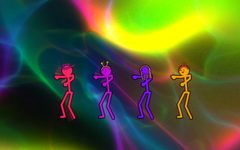
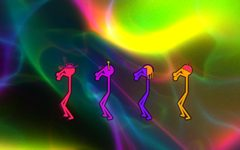
The dancers' hair and faces are placed on the head, so they turn together
The face was slid across the head by a part of the turn while hair that came down to the ears (a bob, a
fringe, long hair, a band) stayed where it was in the picture, so the face moved about under the hair.
Now the place in the picture is taken back to the place on the head it shows, as on a ball, and turned
back by the head's angle. Hair says which part of the head it covers in the head's own terms (above the
hairline, all but the face, a strip down the middle, a band from ear to ear), and the eyes and mouth sit
at their own places on the same ball. Hair now also covers the back of the head when a figure is turned
away. Parts that stand off the head (peak, tail, cups, bobbles) are placed by angle as before.

Checked for all sixteen heads at eight turns round.

Claude-Session: https://claude.ai/code/session_01P6VPR9y6rGkpLBNy8xwDmE

diff --git a/js/shaders.js b/js/shaders.js
@@ -521,25 +521,33 @@ VR_GLSL,
 "          float hpx=hd.z*min(uRes.x,uRes.y);float df=smoothstep(2.5,6.0,hpx);", /* a head only a few dots across has none: they would only flicker */
 "          if(df>0.0&&dot(hl,hl)<11.0){",
 /* fc: the angle the head is turned by (0 facing the viewer), and its face as five numbers in three (see danceFill).
-   Which head a figure has is its number's remainder on dividing by 16 (DN_LOOKS). The hair and hats turn with the
-   head: each part is taken to sit on a ball, at some angle round it from the front, so it is drawn sn of the way
-   across for a part at the front, cn for a part at the side. dh is the distance to what is seen whole; dq to what
-   is behind the head, and so seen only outside its disc. */
+   Which head a figure has is its number's remainder on dividing by 16 (DN_LOOKS). Everything on a head is placed on
+   the head, not on the picture, so that it turns with it. The head is a ball. For whatever lies on the ball (the
+   face, and hair that covers the scalp) the place in the picture is taken back to the place on the ball it shows,
+   and that is turned back by the head's angle: F is the place on the head itself (across, up, and toward the way
+   the face looks), and H the same for a shell of hair a little larger than the head. A style then says which
+   part of the shell it covers, in the head's own terms (behind the ears, above the brow), and the face's eyes and
+   mouth sit at their own places on F. Parts that stand off the head (a peak, a tail, cups, bobbles) are put where
+   their angle round the head brings them, sn of the way across for one at the front and cn for one at the side.
+   dh is the distance to what is seen whole; dq to what is behind the head, and so seen only outside its disc. */
 "            vec4 fc=uD9[i];float sty=mod(id,16.0);float aw=1.2/hpx;float tl=0.085*min(wd,3.0);float rh=length(hl);float ah=atan(hl.x,hl.y);float dh=1e5,dq=1e5;",
 "            float sn=sin(fc.x),cn=cos(fc.x);",
-"            float cap=max(abs(rh-1.09),0.35-hl.y);", /* a line over the top of the head, which several share */
-"            if(sty<0.5){", /* headphones: a band from ear to ear, which narrows to a line as the head turns side on, and two cups, which come to the middle */
-"              float sc=max(abs(cn),0.12);vec2 cw=vec2(0.13+0.13*abs(sn),0.3);",
-"              vec2 cu=abs(vec2(hl.x-1.16*cn,hl.y+0.1))-cw;vec2 cv2=abs(vec2(hl.x+1.16*cn,hl.y+0.1))-cw;", /* the cup on the figure's left, and the one on its right: the one on the far side of the head is behind it */
-"              dh=max(abs(length(vec2(hl.x/sc,hl.y))-1.14)*mix(1.0,sc,min(1.0,abs(hl.x)/(1.14*sc))),0.1-hl.y);",
-"              if(sn<0.15)dh=min(dh,max(cu.x,cu.y));else dq=max(cu.x,cu.y);",
-"              if(sn>-0.15)dh=min(dh,max(cv2.x,cv2.y));else dq=min(dq,max(cv2.x,cv2.y));",
-"            }else if(sty<1.5){float af=mod(ah+0.2+0.2546479*fc.x,0.4)-0.2;if(abs(ah)<1.4)dh=max(abs(af)*rh-0.15*(1.65-rh),max(1.0-rh,rh-1.65));}", /* spikes all over: they go round with the head, four places to a whole turn */
-"            else if(sty<2.5){", /* long hair: six waving strands, from the sides round to the back */
-"              dh=max(abs(rh-1.18),0.3-hl.y);",
+"            vec2 hs=hl/1.12;float h2=dot(hs,hs);vec3 H=vec3(0.0);float off=1e5;",
+"            if(h2<1.0){float hz=sqrt(1.0-h2);H=vec3(hs.x*cn-hz*sn,hs.y,hs.x*sn+hz*cn);off=tl;}", /* off: what is added to a part of the shell, so that it is lit just where it is covered, and not at all off the shell */
+"            float scalp=0.55*H.z-0.05-H.y+off;", /* hair over the scalp: from the brow in front, down past the ears, to the nape behind */
+"            float band=max(abs(H.z)-0.09,0.05-H.y)+off;", /* a band over the top from ear to ear */
+"            if(sty<0.5){", /* headphones: the band, and a cup over each ear, round from the side and narrow from in front */
+"              dh=band;",
+"              for(int k=0;k<2;k++){",
+"                float sd=k==0?1.0:-1.0;vec2 pv=hl-vec2(sd*1.13*cn,-0.1);float pe=length(pv/vec2(0.11+0.2*abs(sn),0.3));float e=(1.0-1.0/max(pe,0.05))*length(pv);",
+"                if(sd*sn<0.25)dh=min(dh,e);else dq=min(dq,e);",
+"              }",
+"            }else if(sty<1.5){float af=mod(ah+0.2+0.2546479*fc.x,0.4)-0.2;dh=scalp;if(abs(ah)<1.4)dh=min(dh,max(abs(af)*rh-0.15*(1.65-rh),max(1.0-rh,rh-1.65)));}", /* spikes all over: they go round with the head, four places to a whole turn */
+"            else if(sty<2.5){", /* long hair: over all the head but the face, and six waving strands hanging from the sides round to the back */
+"              dh=min(H.z-0.25,0.5-H.y)+off;",
 "              for(int k=0;k<6;k++){",
 "                float fk=float(k);float a=(1.6+0.6*floor(fk*0.5))*(mod(fk,2.0)<0.5?1.0:-1.0)+fc.x;",
-"                float e=max(abs(hl.x-1.17*sin(a)-0.07*sin(2.4*hl.y+fk)),max(hl.y-0.3,-2.1+0.15*mod(fk,3.0)-hl.y));",
+"                float e=max(abs(hl.x-1.17*sin(a)-0.07*sin(2.4*hl.y+fk)),max(hl.y-0.1,-2.1+0.15*mod(fk,3.0)-hl.y));",
 "                if(cos(a)>0.0)dh=min(dh,e);else dq=min(dq,e);",
 "              }",
 "            }else if(sty<3.5){", /* a top hat: its outline, its brim and its band, and a buckle on the band at the front */
@@ -549,22 +557,23 @@ VR_GLSL,
 "              dh=min(max(rh-1.12,0.5-hl.y),length(hl-vec2(0.0,1.2))-0.06);",
 "              vec2 pv=vec2(hl.x-1.3*sn,hl.y-0.5);float pe=length(pv/vec2(0.5+0.22*abs(cn),0.1));float pk=(1.0-1.0/max(pe,0.05))*length(pv);", /* how far outside the peak's flat oval this is, measured along the line from its middle */
 "              if(cn>-0.15)dh=min(dh,pk);else dq=pk;",
-"            }else if(sty<5.5){float bn=abs(length(hl-vec2(-0.55*sn,1.3))-0.33);dh=cap;if(cn<0.2)dh=min(dh,bn);else dq=bn;}", /* hair in a bun at the back of the top */
-"            else if(sty<6.5){if(abs(ah)<2.1)dh=min(abs(rh-1.52-0.07*cos(11.0*ah+2.0*fc.x)),abs(rh-1.26-0.05*cos(9.0*ah+1.0-3.0*fc.x)));}", /* a round mass of curls, which go round */
-"            else if(sty<7.5){float af=mod(ah+0.14,0.28)-0.14;if(abs(ah)<0.16+1.0*abs(sn))dh=max(abs(af)*rh-0.12*(2.05-rh),max(1.0-rh,rh-2.05-0.25*cos(ah)+0.25));}", /* a crest from the brow to the nape: a few spikes close together from in front, a fan of them from the side */
-"            else if(sty<8.5){", /* a ponytail: tied at the back of the top, it hangs down behind */
+"            }else if(sty<5.5){float bn=abs(length(hl-vec2(-0.55*sn,1.3))-0.33);dh=scalp;if(cn<0.2)dh=min(dh,bn);else dq=bn;}", /* hair in a bun at the back of the top */
+"            else if(sty<6.5){dh=scalp;if(abs(ah)<2.1)dh=min(dh,min(abs(rh-1.52-0.07*cos(11.0*ah+2.0*fc.x)),abs(rh-1.26-0.05*cos(9.0*ah+1.0-3.0*fc.x))));}", /* a round mass of curls, which go round */
+"            else if(sty<7.5){", /* a crest from the brow to the nape: a strip of hair down the middle of the head, and spikes standing from it, a few close together from in front and a fan from the side */
+"              float af=mod(ah+0.14,0.28)-0.14;dh=max(abs(H.x)-0.13,max(min(0.3-H.y,H.z),-0.5-H.y))+off;",
+"              if(abs(ah)<0.16+1.0*abs(sn))dh=min(dh,max(abs(af)*rh-0.12*(2.05-rh),max(1.0-rh,rh-2.05-0.25*cos(ah)+0.25)));",
+"            }else if(sty<8.5){", /* a ponytail: tied at the back of the top, it hangs down behind */
 "              float tq=min(limb(hl,vec2(-0.75*sn,0.78),vec2(-1.5*sn,0.15)),limb(hl,vec2(-1.5*sn,0.15),vec2(-1.3*sn-0.1*cn,-1.05)))-0.05;",
-"              dh=cap;if(cn<0.2)dh=min(dh,tq);else dq=tq;",
-"            }else if(sty<9.5){", /* two bunches, one at each side, each a ball of hair and a tail */
-"              dh=cap;",
+"              dh=scalp;if(cn<0.2)dh=min(dh,tq);else dq=tq;",
+"            }else if(sty<9.5){", /* two bunches, one behind each ear, each a ball of hair and a tail */
+"              dh=scalp;",
 "              for(int k=0;k<2;k++){",
 "                float a=(k==0?1.75:-1.75)+fc.x;float bx=1.18*sin(a);",
 "                float e=min(length(hl-vec2(bx,-0.05))-0.24,limb(hl,vec2(bx,-0.05),vec2(1.15*bx,-0.95))-0.04);",
 "                if(cos(a)>-0.3)dh=min(dh,e);else dq=min(dq,e);",
 "              }",
-"            }else if(sty<10.5){", /* a bob: hair over the top of the head down to a fringe in front, lower at the sides, and right down the back */
-"              dh=min(max(rh-1.14,0.28-0.85*smoothstep(0.3,-0.3,cn)-hl.y),max(abs(rh-1.07)-0.09,-0.62-hl.y));",
-"            }else if(sty<11.5){", /* a woolly hat: a filled crown, a turned-up band and a bobble on top */
+"            }else if(sty<10.5){dh=max(min(H.z-0.3,0.3-H.y),-0.55-H.y)+off;}", /* a bob: over all the head but the face, down to the jaw, with a fringe */
+"            else if(sty<11.5){", /* a woolly hat: a filled crown, a turned-up band and a bobble on top */
 "              dh=min(max(rh-1.15,0.5-hl.y),min(abs(max(abs(hl.y-0.4)-0.11,abs(hl.x)-1.1)),length(hl-vec2(0.0,1.36))-0.2));",
 "            }else if(sty<12.5){", /* a wide hat: a brim turned up at the sides and a crown with a dent in it */
 "              vec2 bx=abs(hl-vec2(0.0,1.08))-vec2(0.72,0.42);float cr=max(length(max(bx,0.0))+min(max(bx.x,bx.y),0.0),0.16-length(hl-vec2(0.0,1.6)));",
@@ -576,8 +585,8 @@ VR_GLSL,
 "            }else if(sty<14.5){", /* a crown: a band with points, which go round as the head turns */
 "              float zz=1.02+0.42*abs(fract(hl.x*1.25+0.4774648*fc.x)*2.0-1.0);",
 "              dh=min(min(max(abs(hl.y-zz)*0.6,abs(hl.x)-0.86),max(abs(hl.y-0.74),abs(hl.x)-0.86)),max(abs(abs(hl.x)-0.86),max(0.74-hl.y,hl.y-1.3)));",
-"            }else{", /* two bobbles on springs, one from each side of the top: they cross as the head turns */
-"              dh=cap;",
+"            }else{", /* two bobbles on springs, one from each end of a band over the top: they cross as the head turns */
+"              dh=band;",
 "              for(int k=0;k<2;k++){",
 "                float a=(k==0?1.5707963:-1.5707963)+fc.x;vec2 ft=vec2(0.42*sin(a),0.98);vec2 tp=vec2(0.8*sin(a),1.95);",
 "                dh=min(dh,min(limb(hl,ft,tp)+0.02,length(hl-tp)-0.13));",
@@ -587,13 +596,15 @@ VR_GLSL,
 "            float he=(1.0-smoothstep(tl,2.2*tl+aw,dh))*df,hb=(1.0-smoothstep(tl-aw,tl+aw,dh))*df;",
 "            ln=ln*(1.0-he)+hb*fract(hd.w)*2.0;dk=max(dk,he);",
 "            if(hb>0.5)rr=0.15+fract(id*0.382+0.31)*1.08;", /* in another of the palette's colours than the body */
-"            if(rh<0.93&&cn>0.02&&hb<0.5){", /* the face, on a head turned toward the viewer: two eyes and a mouth, dark in the lit head, moved across and narrowed as the head turns */
-"              float sq=max(cn,0.35);vec2 fl=vec2((hl.x-0.7*sn)/sq,hl.y);",
-"              float mo=floor(fc.y)/255.0,lid=fract(fc.y),mw=max(0.05,floor(fc.z)/510.0),cv=fract(fc.z);",
-"              vec2 ey=vec2(abs(fl.x)-0.36,fl.y-0.18);",
-"              float de=mix(length(vec2(ey.x,ey.y/(1.0-0.8*lid)))-0.1,max(abs(length(ey+vec2(0.0,0.05))-0.14)-0.035,-0.03-ey.y),fc.w);", /* an eye is a dot, which its lid flattens; or, shut and smiling, an arch */
-"              float mh=0.045+0.17*mo;float dm=length(vec2(fl.x*mh/mw,fl.y+0.36-cv*fl.x*fl.x))-mh;", /* the mouth: so wide, so far open, its corners so far turned up */
-"              ln*=1.0-0.9*max(1.0-smoothstep(-aw,aw,de),1.0-smoothstep(-aw,aw,dm))*smoothstep(0.02,0.3,cn)*df*(1.0-smoothstep(0.86,0.93,rh));",
+"            if(rh<0.97&&hb<0.5){", /* the face: two eyes and a mouth, dark in the lit head, at their own places on the ball, so they go across and narrow as the head turns, and are gone when it is turned away */
+"              float fz=sqrt(1.0-rh*rh);vec3 F=vec3(hl.x*cn-fz*sn,hl.y,hl.x*sn+fz*cn);",
+"              if(F.z>0.1){",
+"                vec2 fl=F.xy;float mo=floor(fc.y)/255.0,lid=fract(fc.y),mw=max(0.05,floor(fc.z)/510.0),cv=fract(fc.z);",
+"                vec2 ey=vec2(abs(fl.x)-0.36,fl.y-0.18);",
+"                float de=mix(length(vec2(ey.x,ey.y/(1.0-0.8*lid)))-0.1,max(abs(length(ey+vec2(0.0,0.05))-0.14)-0.035,-0.03-ey.y),fc.w);", /* an eye is a dot, which its lid flattens; or, shut and smiling, an arch */
+"                float mh=0.045+0.17*mo;float dm=length(vec2(fl.x*mh/mw,fl.y+0.36-cv*fl.x*fl.x))-mh;", /* the mouth: so wide, so far open, its corners so far turned up */
+"                ln*=1.0-0.9*max(1.0-smoothstep(-aw,aw,de),1.0-smoothstep(-aw,aw,dm))*smoothstep(0.1,0.35,F.z)*df;",
+"              }",
 "            }",
 "          }",
 "        }",

diff --git a/docs/ARCHITECTURE.md b/docs/ARCHITECTURE.md
@@ -537,7 +537,7 @@ Drawn into the feedback buffer after the composite, so the motion smears them. S
 
 **The dancers** (`js/dance.js`, `js/moves.js`; `uOv` 8 to 10: Dancer, Chorus line, Dance floor, marked `dance: 1`, `2`, `3` in `OVERLAYS`). Stick figures that dance to the music: one, with a deep floor to itself; four doing the same dance together; a crowd of eight to twelve (chosen each time the overlay is), each with its own. They are meant to move as a person in a suit with lines down the limbs would. Nothing about them is in the sound texture: JavaScript works out every joint and the shader only draws lines.
 - *Manners.* A figure keeps one of three for as long as it is on the floor (`DN_MANNERS`; a third of a crowd each, the dancer alone any, the chorus line all steady, since they dance as one). **Steady** is the figure as it always was. **Lively** takes the music to be 1.4 times as full as it is, so chooses livelier moves, sways and hits with its arms a quarter to a third more, gives half as much again to the beat with its knees and head, and follows a move more sharply. **Smooth** takes the music as 0.72 as full, hits half as hard, hardly bobs, rounds every corner of a move (its pose follows at 8 a second, not 13), sweeps its hands in slow wide curves, moves over the floor at 2.2 times `DN_DRIFT` and chooses a new place as soon as it reaches one, so it never stops gliding, and spins on the spot through every move at 0.3 to 0.6 radians a beat, the same way for most of them. All of it is inside the room a figure already had, and `tools/unit.mjs` still holds every joint under seven heights a second.
-- *Heads.* Each figure's number (`d.id`) is its place in the crowd times 16 plus which of the sixteen heads it has (`DN_LOOKS`), neighbours differing: headphones, spikes, long hair, a top hat, a cap whose peak points the way the head is turned, a bun, a round mass of curls, a crest, a ponytail, two bunches, a bob, a woolly hat with a bobble, a wide hat, a party hat, a crown, and two bobbles on springs. The shader takes the number's remainder on dividing by 16 and draws the head's details in the head's own frame (across, and up along the line from the neck, in head radii), in lines a quarter as wide as the body's and in another of the palette's colours. The hair and hats turn with the head. `uD9.x` is the angle the chest faces by (0 toward the viewer), and each part is taken to sit on a ball at some angle round it from the front, so it is drawn the sine of its angle across: the cap is a filled crown with a flat oval peak joined to its lower edge, a band across the brow from in front, long from the side and hidden from behind; a ponytail hangs behind and is seen whole from the back; a bob's hair comes right down the back of the head; a party hat sits to one side and goes round; a crown's points go round; the two bobbles cross; the headphones' cups come to the middle as the head turns side on and their band narrows to a line; the six strands of long hair go round from the sides to the back, so a figure seen from behind has them over its head; the bun is behind the top of the head and the top hat has a buckle at the front; the crest is a few spikes close together from in front and a fan from the side; spikes and curls go round. A part behind the head is drawn only outside its disc (`dq`). A head turned toward the viewer has two eyes and a mouth, dark in the lit head, moved across and narrowed as it turns. **Faces** (`DN_FACES`): smile, grin, bliss (eyes shut and smiling: arches, not dots), pursed (a small round mouth), cool (lids half down, mouth nearly straight) and lost (eyes shut, lips pursed). A face is five numbers: the mouth's half width, how far its corners turn up, how far it is open, how far the lids are down, how far the eyes are arches. A figure takes a new face every four to twelve seconds (`pickFace`: lively figures grin most, smooth ones shut their eyes most) and goes over to it in about a third of a second, number by number, so nothing jumps. `danceFill` packs them two to a number for the shader (the first in 255 steps as the whole part, the second as what is over). The mouth opens with the kick, more on a lively figure and hardly at all when pursed; the eyes shut for a moment every five seconds or so. On a head under about six dots across the details fade out, and under two and a half they are not worked out at all, so the far figures of a crowd cost what they did. Per dot it is one test against the head's place and, near a head, one head's worth of arithmetic: little beside the sixteen lines of the body.
+- *Heads.* Each figure's number (`d.id`) is its place in the crowd times 16 plus which of the sixteen heads it has (`DN_LOOKS`), neighbours differing: headphones, spikes, long hair, a top hat, a cap whose peak points the way the head is turned, a bun, a round mass of curls, a crest, a ponytail, two bunches, a bob, a woolly hat with a bobble, a wide hat, a party hat, a crown, and two bobbles on springs. The shader takes the number's remainder on dividing by 16 and draws the head's details in the head's own frame (across, and up along the line from the neck, in head radii), in lines a quarter as wide as the body's and in another of the palette's colours. The hair, the hats and the face turn with the head as one, because all of them are placed on the head and none on the picture. `uD9.x` is the angle the chest faces by (0 toward the viewer). The head is a ball: for what lies on it, the place in the picture is taken back to the place on the ball it shows (`z = sqrt(1 - x^2 - y^2)`) and turned back by the angle, giving `F`, the place on the head itself (across, up, toward the way the face looks), and `H`, the same on a shell of hair 1.12 times the head. Hair that covers the head says which part of the shell it covers in the head's own terms: `scalp` (above a line that slopes from the brow down past the ears to the nape) under the spikes, the bun, the curls, the ponytail and the bunches; all but the face (`H.z > 0.3` and below the fringe) for the bob and the long hair; a strip down the middle for the crest; `band` (within 0.09 of the cut through both ears, over the top) for the headphones and the bobbles. The eyes and mouth sit at their own places on `F` and fade as `F.z` nears nothing, so they go across and narrow exactly as the hair's edge does. (They were first drawn flat with the face slid across by 0.7 of the sine while a fringe or a bob stayed where it was: the face moved under the hair.) Parts that stand off the head are put where their angle round it brings them, the sine of that angle across: the cap is a filled crown with a flat oval peak joined to its lower edge, a band across the brow from in front, long from the side and hidden from behind; a ponytail hangs behind and is seen whole from the back; a bob's hair comes right down the back of the head; a party hat sits to one side and goes round; a crown's points go round; the two bobbles cross; the headphones' cups come to the middle as the head turns side on and their band narrows to a line; the six strands of long hair go round from the sides to the back, so a figure seen from behind has them over its head; the bun is behind the top of the head and the top hat has a buckle at the front; the crest is a few spikes close together from in front and a fan from the side; spikes and curls go round. A part behind the head is drawn only outside its disc (`dq`). A head turned toward the viewer has two eyes and a mouth, dark in the lit head, moved across and narrowed as it turns. **Faces** (`DN_FACES`): smile, grin, bliss (eyes shut and smiling: arches, not dots), pursed (a small round mouth), cool (lids half down, mouth nearly straight) and lost (eyes shut, lips pursed). A face is five numbers: the mouth's half width, how far its corners turn up, how far it is open, how far the lids are down, how far the eyes are arches. A figure takes a new face every four to twelve seconds (`pickFace`: lively figures grin most, smooth ones shut their eyes most) and goes over to it in about a third of a second, number by number, so nothing jumps. `danceFill` packs them two to a number for the shader (the first in 255 steps as the whole part, the second as what is over). The mouth opens with the kick, more on a lively figure and hardly at all when pursed; the eyes shut for a moment every five seconds or so. On a head under about six dots across the details fade out, and under two and a half they are not worked out at all, so the far figures of a crowd cost what they did. Per dot it is one test against the head's place and, near a head, one head's worth of arithmetic: little beside the sixteen lines of the body.
 - *Journey and the chorus line.* `J_SELDOM` in `js/journey.js` multiplies the chorus line's chance by 0.15 wherever Journey chooses an overlay, on top of the user's own likes: from either other overlay of dancers it is taken about one time in eight.
 
 - *Keeping time.* `makeBeatClock` is given the bass's pulse each frame. A hit is the pulse rising 0.15 above where it had sunk to (and above 0.2, and at least 0.24 s after the last). The time between two hits is doubled or halved into `DN_FAST` to `DN_SLOW` (0.36 to 0.72 s, 166 to 83 beats a minute) and taken as the beat's length when within 18% of what is held (eased in by 0.3), or after three in a row that are not. The count `u` runs on at one a beat; a hit within 0.3 of a whole count pulls the count three quarters of the way to it, spread over the next frames, and three hits in a row that fall between the counts move the count to them. The count never goes backward. It is kept whatever overlay is chosen, so figures chosen later are in time at once. A tapped tempo is followed the same way, since it gives the same pulse.

diff --git a/CLAUDE.md b/CLAUDE.md
@@ -81,7 +81,7 @@ The Python tools need `google-chrome` or `chromium` on PATH (they run it headles
 - **Every sampler in the scene shader must be given a texture unit every frame.** One left at the default, unit 0, can name the picture being drawn into, and the chip then refuses the draw.
 - **Hold still averages frames of a scene that must not change.** While `stillN` is not zero the scene shader gets no sound and no clock runs. Anything new that changes the scene from frame to frame must either stop while `still` is true or be added to what `stillAim` compares.
 - **User look input goes through `userLook(dx, dy)`**, not straight into `lookX`/`lookY`. That is how the autopilot knows to stand back while the user steers. The autopilot itself still writes `lookX`/`lookY` directly.
-- **The dancers' joints are worked out in JavaScript (`js/dance.js`) and only drawn by the trails shader.** A move (`js/moves.js`) is a list of poses at given beats; a pose is 28 numbers that give hands and feet as places, sides measured outward, and `danceBody` makes a body in space from it with every bone keeping its length. A move with no `hold` flows through its keys without stopping; give it a `hold` only if it should stop on the beat. The knees' give comes from the bass itself (`st.kick`), not from the move. A new move must begin at beat 0, take 1, 2, 4, 8 or 16 beats, name its poses only by what differs from standing, and show from in front: a limb moved straight toward the viewer hardly shows, so send it to the side as well. Look at it as a row of poses before keeping it. A figure's pose is only ever gone toward (the end of the loop in `danceStep`), never set, a move is never changed while the last change is still crossing over, and elbows swing through `mem`: `tools/unit.mjs` holds every joint under seven figure heights a second. The figures stand on a floor that goes away from the viewer (`place`): nothing may come nearer than its front edge, and `danceFill` hands them to the shader furthest first, which draws each over the ones before. The shader's arrays and loop are written for `DN_MAX` (12) figures, 120 uniform vectors (ten to a figure: the tenth is the face); change the three together. A figure keeps a manner (`DN_MANNERS`: steady, lively, or smooth, which glides and spins) for as long as it is on the floor, and its number (`d.id`) tells the shader which of `DN_LOOKS` heads it has; the head's hair, hat and face are drawn only by the shader, in the head's own frame, and fade out on a head a few dots across. A new part of a head must turn with it (placed by the sine and cosine of `uD9.x`, and put in `dq` while it is behind the head), and a new face is a row in `DN_FACES`, eased to number by number, never switched. Journey chooses the chorus line seldom (`J_SELDOM` in `js/journey.js`). The figures dance only while the beat is `sure`: four clocks (`makeBeatBank`), each on one part of the spectrum's onsets from `listen.js`, because the beat is as often in the hi-hats as in the bass; do not go back to judging the bass's hits one at a time. Any change to the clock must keep the rhythm tests in `tools/unit.mjs`; otherwise they wait or walk (`idle`), and anything new they do without a beat belongs there, turning no faster than `DN_TURN`. The moves are chosen by chance, so the figures stop under Hold still and are left out while `lapOn()`.
+- **The dancers' joints are worked out in JavaScript (`js/dance.js`) and only drawn by the trails shader.** A move (`js/moves.js`) is a list of poses at given beats; a pose is 28 numbers that give hands and feet as places, sides measured outward, and `danceBody` makes a body in space from it with every bone keeping its length. A move with no `hold` flows through its keys without stopping; give it a `hold` only if it should stop on the beat. The knees' give comes from the bass itself (`st.kick`), not from the move. A new move must begin at beat 0, take 1, 2, 4, 8 or 16 beats, name its poses only by what differs from standing, and show from in front: a limb moved straight toward the viewer hardly shows, so send it to the side as well. Look at it as a row of poses before keeping it. A figure's pose is only ever gone toward (the end of the loop in `danceStep`), never set, a move is never changed while the last change is still crossing over, and elbows swing through `mem`: `tools/unit.mjs` holds every joint under seven figure heights a second. The figures stand on a floor that goes away from the viewer (`place`): nothing may come nearer than its front edge, and `danceFill` hands them to the shader furthest first, which draws each over the ones before. The shader's arrays and loop are written for `DN_MAX` (12) figures, 120 uniform vectors (ten to a figure: the tenth is the face); change the three together. A figure keeps a manner (`DN_MANNERS`: steady, lively, or smooth, which glides and spins) for as long as it is on the floor, and its number (`d.id`) tells the shader which of `DN_LOOKS` heads it has; the head's hair, hat and face are drawn only by the shader, in the head's own frame, and fade out on a head a few dots across. Nothing on a head is placed on the picture: what lies on the head (hair over the scalp, a fringe, a band, the face) is said in the head's own frame (`H` for the shell of hair, `F` for the face: across, up, toward the way it looks), and what stands off it is placed by the sine and cosine of `uD9.x` and put in `dq` while it is behind the head. After changing a head, look at it at eight turns round (0 to 315 degrees): the face and the hair's edge must keep their places against each other, and a new face is a row in `DN_FACES`, eased to number by number, never switched. Journey chooses the chorus line seldom (`J_SELDOM` in `js/journey.js`). The figures dance only while the beat is `sure`: four clocks (`makeBeatBank`), each on one part of the spectrum's onsets from `listen.js`, because the beat is as often in the hi-hats as in the bass; do not go back to judging the bass's hits one at a time. Any change to the clock must keep the rhythm tests in `tools/unit.mjs`; otherwise they wait or walk (`idle`), and anything new they do without a beat belongs there, turning no faster than `DN_TURN`. The moves are chosen by chance, so the figures stop under Hold still and are left out while `lapOn()`.
 - **The eye (`js/eye.js`) is the last pass, over the finished picture, and nothing is drawn after it or over it.** The world, the land, the overlays and the filters show only in its pupil: a new effect belongs in the passes before it, never in `FS_EYE`. What changes in it over time comes from `clock` and the frame's sound; the blink, the gaze and the pupil are stepped in `stepEye`, which stops under Hold still and holds them fixed while `lapOn()`. Noise that goes round the iris or the white must be `vn`/`fbm` with a whole number for `per`, or a seam shows on the left. Beyond the lids is a surface of pores, not skin (`surf`): a pore with its rim must stay within 0.62 of a square of its middle, and must never have a radius of nothing, or the squares' edges show; the pores' clock is `ey.por`, stepped with the rest. The blink's times are in `BLINK_*` and `tools/unit.mjs` holds how fast the lid may move: do not make it quicker. How near it is seen from is `eyeRadius`, and at the last step the iris must cover every corner of the picture (`tools/unit.mjs` checks wide and tall); the pupil as drawn goes through `eyePupil`. It is flat on the screen, so it is off in the VR viewer. Only `blinkShut` changes the world from it, and only when nothing else has the world in hand.
 - **A panel that scrolls keeps its title and Close button at the top** (`position:sticky` on `.advHead` and `.panHead`). A new panel must do the same.
 - **A control belongs under a heading in the panel** (`#panel` in `index.html`, a plain child of a `.secBody`), not in the bar: the bar is for what is used all the time. A screen that is a task of its own (Compose) must hold every control that task needs, shown only when it can be used, so that nobody has to go elsewhere to find the next step. A chooser shows its things by name (`pickSort`).
